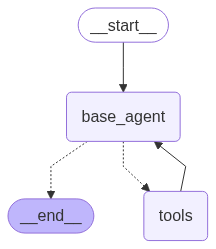
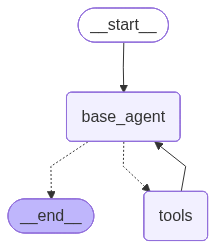
Add path setup utility and configure environment variable loading
- Introduced path_setup.py to manage project path for imports.
- Updated main.py and other modules to utilize the new path setup.
- Enhanced authentication_setup.py to load environment variables from a .env file.
- Created .env.example for API key configuration guidance.
- Refactored log creation to ensure logs are saved in the correct directory.
- Fixed minor typos in prompt_template.py.
- Added __init__.py files to various directories for package initialization.

diff --git a/src/prompts/prompt_template.py b/src/prompts/prompt_template.py
@@ -6,7 +6,7 @@ def system_message() -> SystemMessage:
         content="""Given a GitHub repository URL provided by the user:
 
                 Analyze the repository contents using all available tools.
-                You must sse every tool at your disposal to gather comprehensive information.
+                You must use every tool at your disposal to gather comprehensive information.
                 If the user requests repository information, collect and present all relevant data.
                 If the user requests a README file, generate an extremely detailed file in Markdown format based on the repository’s contents.
 
@@ -37,8 +37,8 @@ def system_message() -> SystemMessage:
 
                 ✅ Additional Required Sections:
                     🗂 Repository Structure — Include the complete structure of the repository (folders, files). For each part, provide a brief explanation of its purpose and function within the project.
-                    🔗 Flow Chart (optional) — If feasible, include a flow chart or diagram illustrating the interconnection between different components of the repository (e.g., how modules interact, data flow, etc.).
-                        Use tools like MermaidJS or ASCII diagrams, depending on available capabilities.   
+                    🔗 Flow Chart — If feasible, include a flow chart or diagram illustrating the interconnection between different components of the repository (e.g., how modules interact, data flow, etc.).
+                        Otherwise use tools like MermaidJS or ASCII diagrams, depending on available capabilities.
 """)
 
 # Human Message

diff --git a/src/path_setup.py b/src/path_setup.py
@@ -1,0 +1,25 @@
+"""
+Path setup utility for the AI-Agent-for-Readme project.
+This module ensures that the src directory is properly added to the Python path
+for relative imports to work correctly across all modules.
+"""
+
+import os
+import sys
+
+
+def setup_project_path():
+    """
+    Add the src directory to the Python path if it's not already present.
+    This allows for proper relative imports within the project structure.
+    """
+    # Get the absolute path to the src directory
+    src_dir = os.path.dirname(os.path.abspath(__file__))
+    
+    # Add src directory to Python path if not already present
+    if src_dir not in sys.path:
+        sys.path.insert(0, src_dir)
+
+
+# Automatically set up the path when this module is imported
+setup_project_path()

diff --git a/src/agent_execution/main.py b/src/agent_execution/main.py
@@ -1,8 +1,21 @@
 # Libraries and modules
+import sys
+import os
+
+# Setup project path for imports
+sys.path.insert(0, os.path.join(os.path.dirname(__file__), '..'))
+from path_setup import setup_project_path
+
 from auth.authentication_setup import _set_env
 from prompts.prompt_template import system_message, human_message
 from graph.agent_graph import main_agent
 from logs.log import log_creation
+
+# Set up environment variables
+_set_env("OPENAI_API_KEY")
+_set_env("HF_TOKEN")
+_set_env("TAVILY_API_KEY")
+_set_env("GITHUB_TOKEN")
 
 # User Input examples for the agent
 #user_input = 'How many files exists in this repository https://github.com/FilipePacheco73/AI-Agent-for-Readme?'

diff --git a/src/logs/log.py b/src/logs/log.py
@@ -1,4 +1,5 @@
 import json
+import os
 from datetime import datetime
 
 def log_creation(messages: dict):
@@ -45,5 +46,7 @@ def log_creation(messages: dict):
     log += "=" * 50 + "\n"
 
     # Save the log to a file
-    with open(f"src/logs/agent_log_{current_time}.txt", "w") as f:
+    log_dir = os.path.join(os.path.dirname(__file__))
+    log_path = os.path.join(log_dir, f"agent_log_{current_time}.txt")
+    with open(log_path, "w") as f:
         f.write(log)

diff --git a/src/graph/agent_graph.py b/src/graph/agent_graph.py
@@ -1,3 +1,10 @@
+import sys
+import os
+
+# Setup project path for imports
+sys.path.insert(0, os.path.join(os.path.dirname(__file__), '..'))
+from path_setup import setup_project_path
+
 from langgraph.graph import MessagesState, START, END, StateGraph
 from langgraph.prebuilt import tools_condition, ToolNode
 from langchain_openai import ChatOpenAI

diff --git a/src/tools/tool_util.py b/src/tools/tool_util.py
@@ -1,5 +1,11 @@
 import os
+import sys
 import requests
+
+# Setup project path for imports
+sys.path.insert(0, os.path.join(os.path.dirname(__file__), '..'))
+from path_setup import setup_project_path
+
 from auth.authentication_setup import _set_env
 
 # Set up the GitHub token for authentication

diff --git a/src/auth/authentication_setup.py b/src/auth/authentication_setup.py
@@ -1,4 +1,8 @@
 import os, getpass
+from dotenv import load_dotenv
+
+# Load environment variables from .env file
+load_dotenv()
 
 def _set_env(var: str):
     if not os.environ.get(var):
